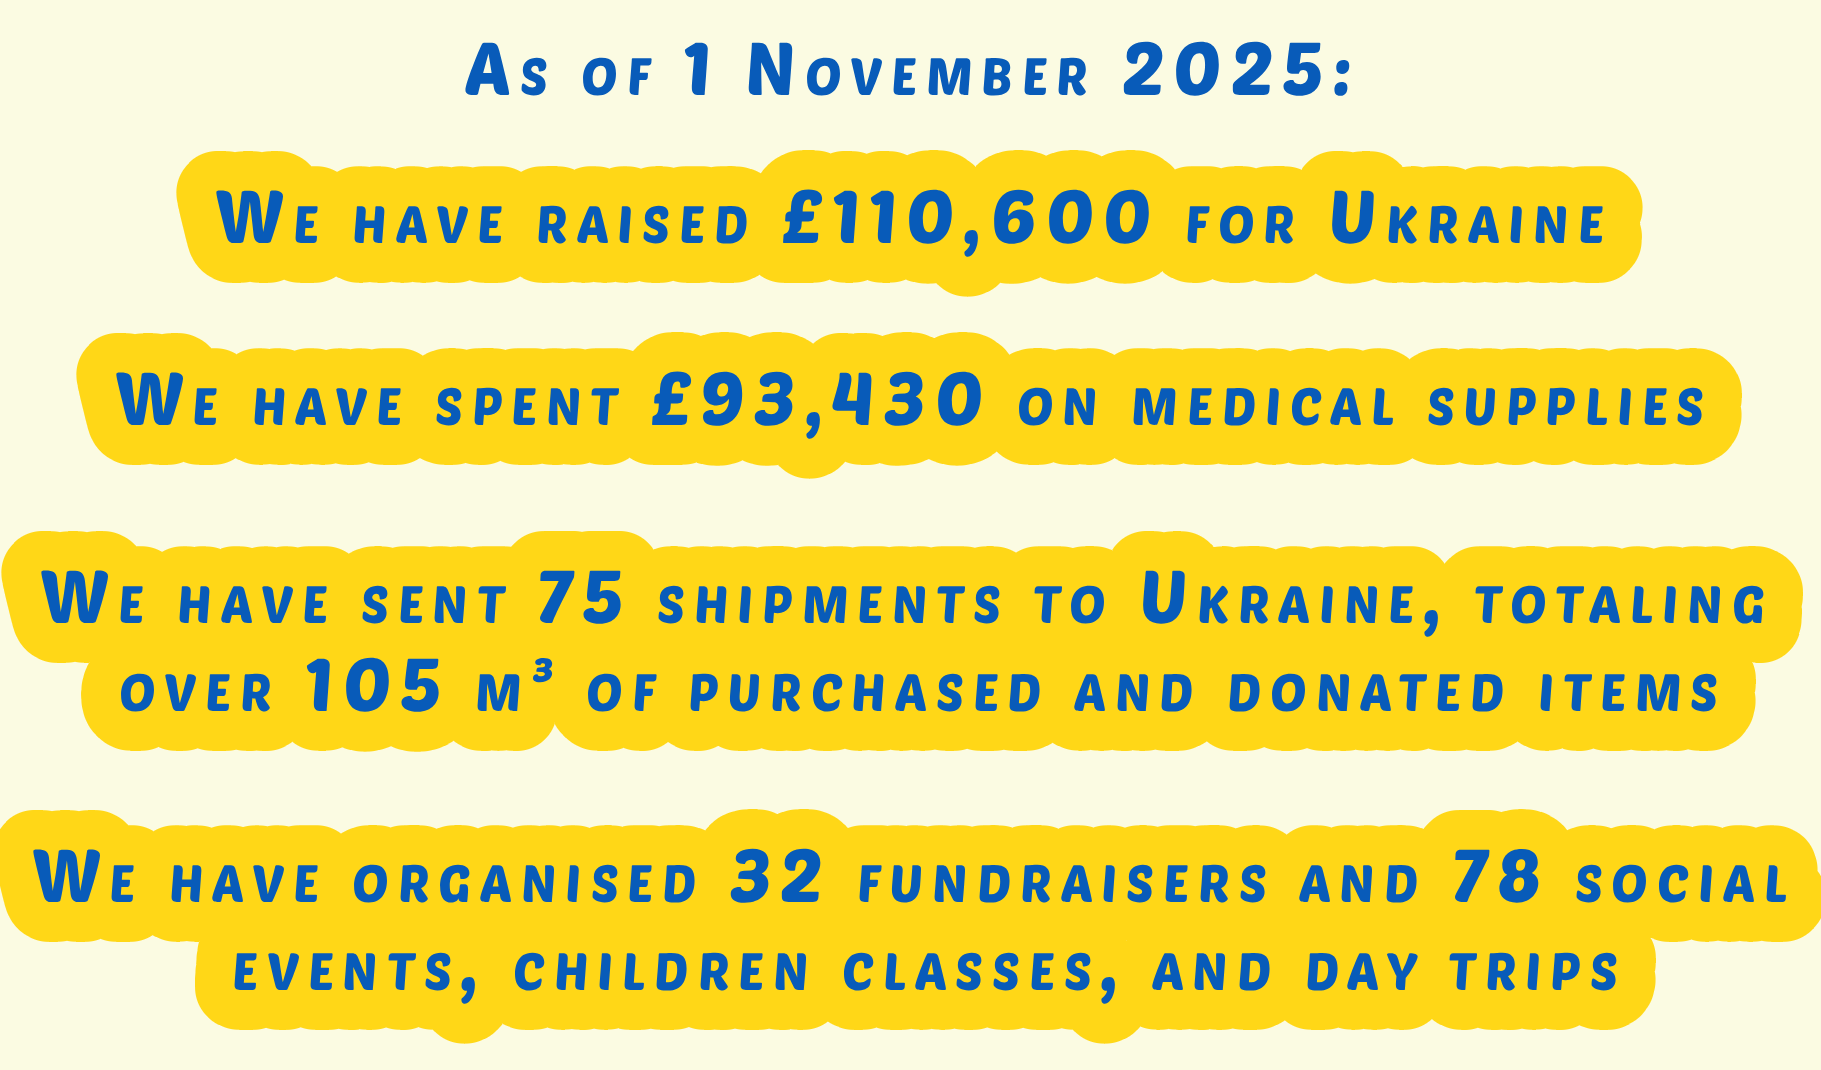
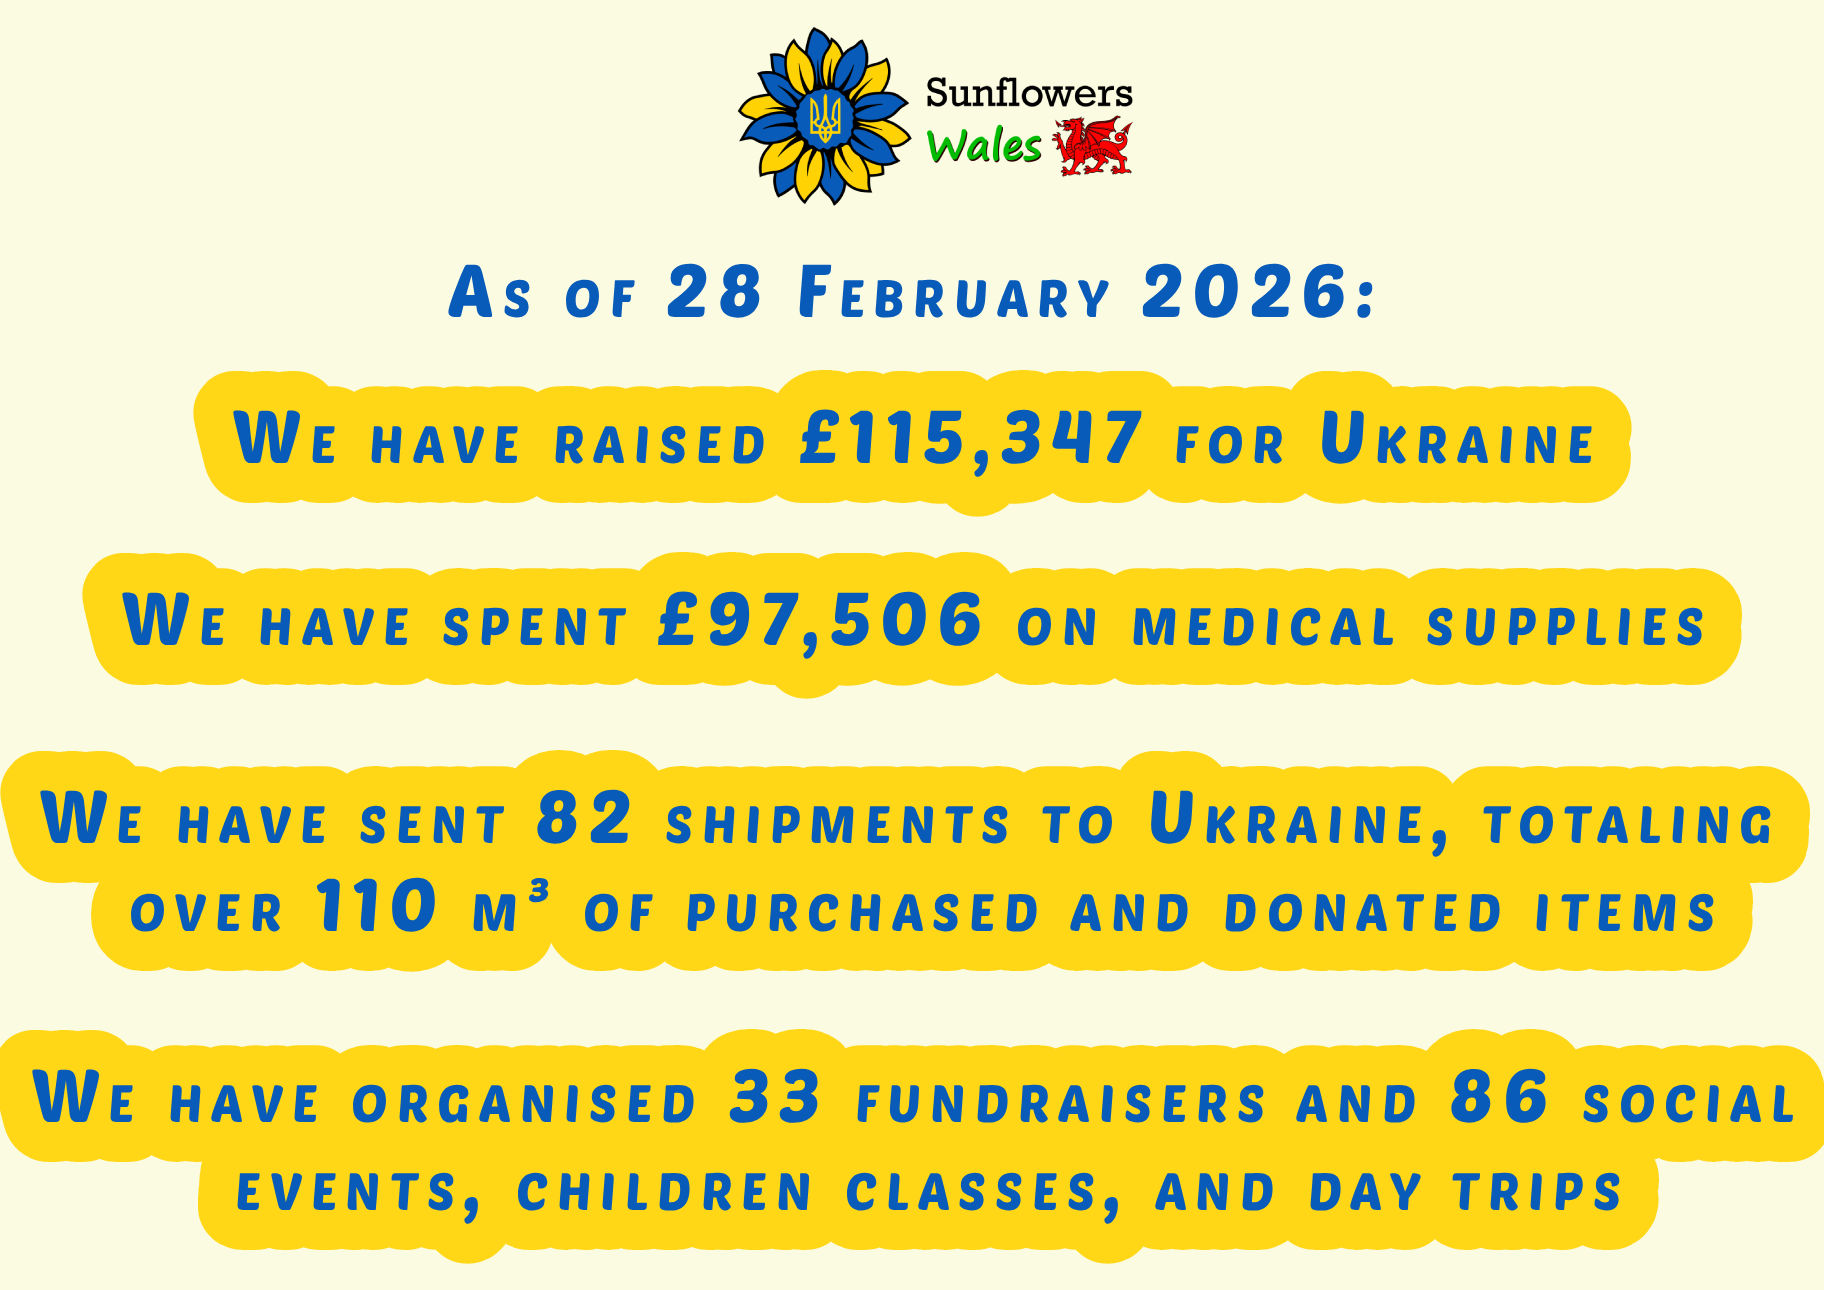
Report  28.02.2026

diff --git a/content/events/Forest School Day 2/index.md b/content/events/Forest School Day 2/index.md
@@ -1,0 +1,23 @@
+---
+title: Forest School Day at Singleton Park
+date: 2025-11-15
+image:
+  focal_point: 'top'
+share: false
+authors: [oksana]
+---
+
+Another wonderful family forest session for Ukrainians at Singleton Park.
+
+<!--more-->
+
+A huge thank you to <a href="https://www.facebook.com/ForestSchoolSNPT/" target="_blank">Forest School Swansea Neath & Port Talbot</a> for providing such a wonderful and memorable session for our children. We are truly grateful for the warmth, care, and creativity that went into every activity.
+
+The children had the best time — from preparing pizzas completely from scratch, to building their own shelter, chopping wood. Every moment was filled with excitement, teamwork, and joy.
+
+We appreciate all the effort that goes into creating such meaningful outdoor experiences. Thank you for giving our children a day to remember!
+
+
+<div style="display: flex; justify-content: center; align-items: center; width: 100%;">
+<iframe width="560" height="315" src="https://www.youtube.com/embed/USMXT6jPC1A?si=BbKHcAFow-1u5uB7" title="YouTube video player" frameborder="0" allow="accelerometer; autoplay; clipboard-write; encrypted-media; gyroscope; picture-in-picture; web-share" referrerpolicy="strict-origin-when-cross-origin" allowfullscreen></iframe>
+</div>

diff --git a/content/events/Forest School Day/index.md b/content/events/Forest School Day/index.md
@@ -22,5 +22,5 @@ Many thanks to the whole team, and especially to Cath and Fay, for such an incre
 
 
 <div style="display: flex; justify-content: center; align-items: center; width: 100%;">
-<iframe width="560" height="315" src="https://www.youtube.com/embed/LWq6_OkaQRM?si=A7EdjAQ1DtFIxAdb" title="YouTube video player" frameborder="0" allow="accelerometer; autoplay; clipboard-write; encrypted-media; gyroscope; picture-in-picture; web-share" referrerpolicy="strict-origin-when-cross-origin" allowfullscreen></iframe>
+<iframe width="560" height="315" src="https://www.youtube.com/embed/p_ivmjXGGzc?si=OUWmYecwix1pj0Zr" title="YouTube video player" frameborder="0" allow="accelerometer; autoplay; clipboard-write; encrypted-media; gyroscope; picture-in-picture; web-share" referrerpolicy="strict-origin-when-cross-origin" allowfullscreen></iframe>
 </div>

diff --git a/content/events/Swimming Party/index.md b/content/events/Swimming Party/index.md
@@ -19,5 +19,5 @@ Many thanks to <a href="https://www.facebook.com/swanseacitycouncil" target="_bl
 
 
 <div style="display: flex; justify-content: center; align-items: center; width: 100%;">
-<iframe width="560" height="315" src="https://www.youtube.com/embed/vqESuulQ5eM?si=fmygiT392d0lbpfQ" title="YouTube video player" frameborder="0" allow="accelerometer; autoplay; clipboard-write; encrypted-media; gyroscope; picture-in-picture; web-share" referrerpolicy="strict-origin-when-cross-origin" allowfullscreen></iframe>
+<iframe width="560" height="315" src="https://www.youtube.com/embed/-z-OSdHLUNU?si=pkbkxs-f8GF3z1we" title="YouTube video player" frameborder="0" allow="accelerometer; autoplay; clipboard-write; encrypted-media; gyroscope; picture-in-picture; web-share" referrerpolicy="strict-origin-when-cross-origin" allowfullscreen></iframe>
 </div>

diff --git a/content/reports/reports.md b/content/reports/reports.md
@@ -19,6 +19,22 @@ design:
     color: 'var(--bg)'
 ---
 
+<h4>November 2025 – February 2026 </h4>
+
+<h5>Donations to our accounts: £4,746.8</h5>
+
+<h5>Total spending: £6,531.57</h5>
+
+* Deliveries to Ukraine: £5,521.50, namely,
+
+  + Medical supplies: £4,077.5
+
+  + Delivery costs (ca. 7 m<sup>3</sup>): £1,445
+
+* Funding used: £1,010.07
+
+<br/>
+
 <h4>August – October 2025</h4>
 
 <h5>Total money income: £15,624.81</h5>
